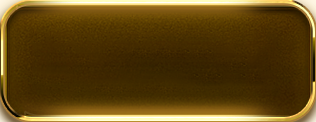
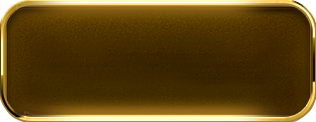
feat: 更新 RetarirStep2 组件，修改显示状态为 false，替换背景图和按钮图，删除不再使用的按钮背景图

diff --git a/src/components/RetarirStep2.vue b/src/components/RetarirStep2.vue
@@ -2,7 +2,7 @@
  * @Author: along longwang6@163.com
  * @Date: 2025-06-29 15:40:36
  * @LastEditors: along longwang6@163.com
- * @LastEditTime: 2025-07-04 10:44:07
+ * @LastEditTime: 2025-07-04 11:35:23
  * @FilePath: /vue3_app/src/components/RetarirStep2.vue
  * @Description: 这是默认设置,请设置`customMade`, 打开koroFileHeader查看配置 进行设置: https://github.com/OBKoro1/koro1FileHeader/wiki/%E9%85%8D%E7%BD%AE
 -->
@@ -179,7 +179,7 @@ const userInfo = computed(() => {
 })
 
 const router = useRouter()
-const show = ref(true)
+const show = ref(false)
 
 const columns = [
     { text: 'PHONE', value: 'PHONE' },
